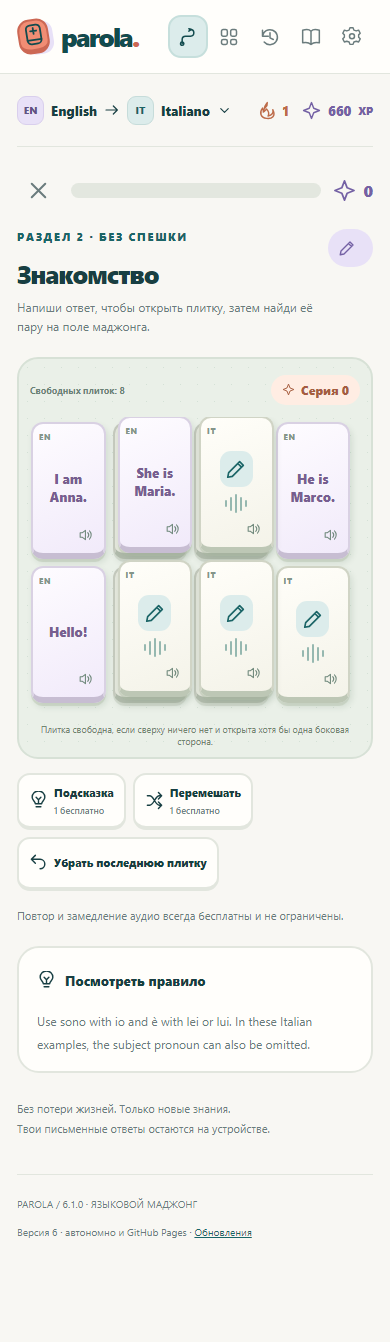
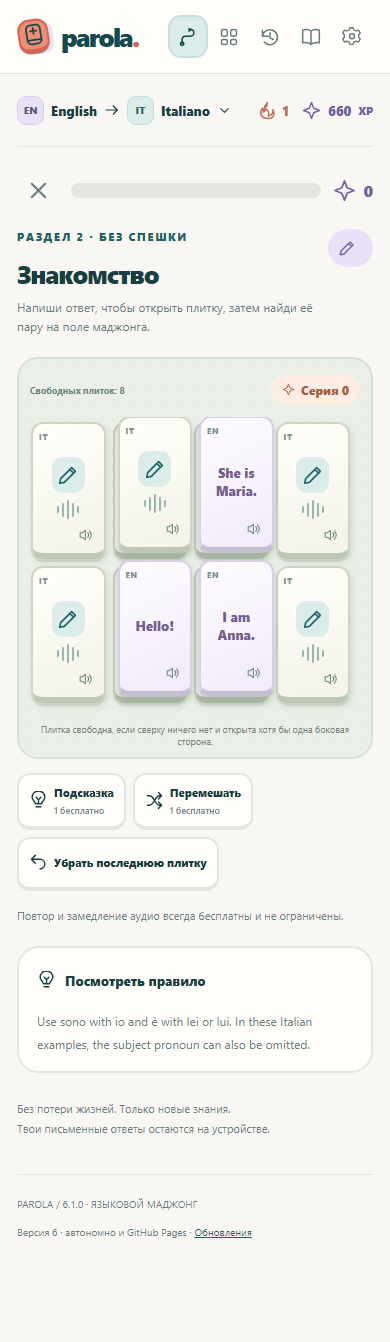
docs: verifica pubblica di monolingua e alfabeto 6.1.0
Conserva i report eseguiti sul sito ufficiale matteoawi.github.io/parola: 90 controlli di apprendimento e 25 controlli di regressione, tutti superati. I report locali restano separati. Conferma 45 lezioni, 294 elementi, 588 risposte di alfabeto, quattro percorsi monolingua, audio effettivo, salvataggi, tastiere, responsive e offline. Aggiorna documentazione della verifica e SHA-256; integra origin/master e pubblica senza forzature.

Changed region(s): [[0.0615, 0.3055, 0.8923, 0.5194], [0.0923, 0.5194, 0.2462, 0.5499], [0.8923, 0.3361, 0.9231, 0.3972]]

diff --git a/docs/ALFABETO_E_MONOLINGUA.md b/docs/ALFABETO_E_MONOLINGUA.md
@@ -33,8 +33,6 @@ L’ascolto richiede un file effettivamente disponibile o una voce del dispositi
 
 La sessione conserva posizione e bozza. L’esportazione include sessioni e competenze. I risultati di ascolto non certificano la pronuncia dell’utente e i risultati di scrittura non valutano la grafia a mano. Non sono stati aggiunti MP3 arabi o una revisione madrelingua certificata.
 
-## Fonti e scelte di progetto
-
 ## Verifiche della release
 
 23 test Node superati: compatibilità dei salvataggi, quattro percorsi monolingua, copertura delle lettere, unicità delle scelte, valutazione dei segni e contabilità delle risposte assistite. Le simulazioni del motore comprendono 5.280 scenari di tavolo e 2.000 partite con scelte casuali valide, senza stalli osservati.
@@ -54,3 +52,5 @@ Per l’inglese, la distinzione tra lettere e suoni e il lavoro su parole intere
 Per il russo, il riferimento introduttivo è la lezione sull’alfabeto nei [materiali didattici della Cornell University](https://russian.cornell.edu/russian.web/courses/121/Leed_Less_1-21.pdf).
 
 Sessioni da sei elementi, ingresso libero, indizi monolingua e criterio di acquisizione sono scelte di progetto, non risultati sperimentali o dichiarazioni di efficacia didattica certificata.
+
+La verifica delle due suite è stata completata sia in locale sia su https://matteoawi.github.io/parola/, con 115 controlli browser pubblici superati in totale. I report locali restano separati in `local-learning-verification-6.1.0.json` e `local-pages-verification-6.1.0.json`.
